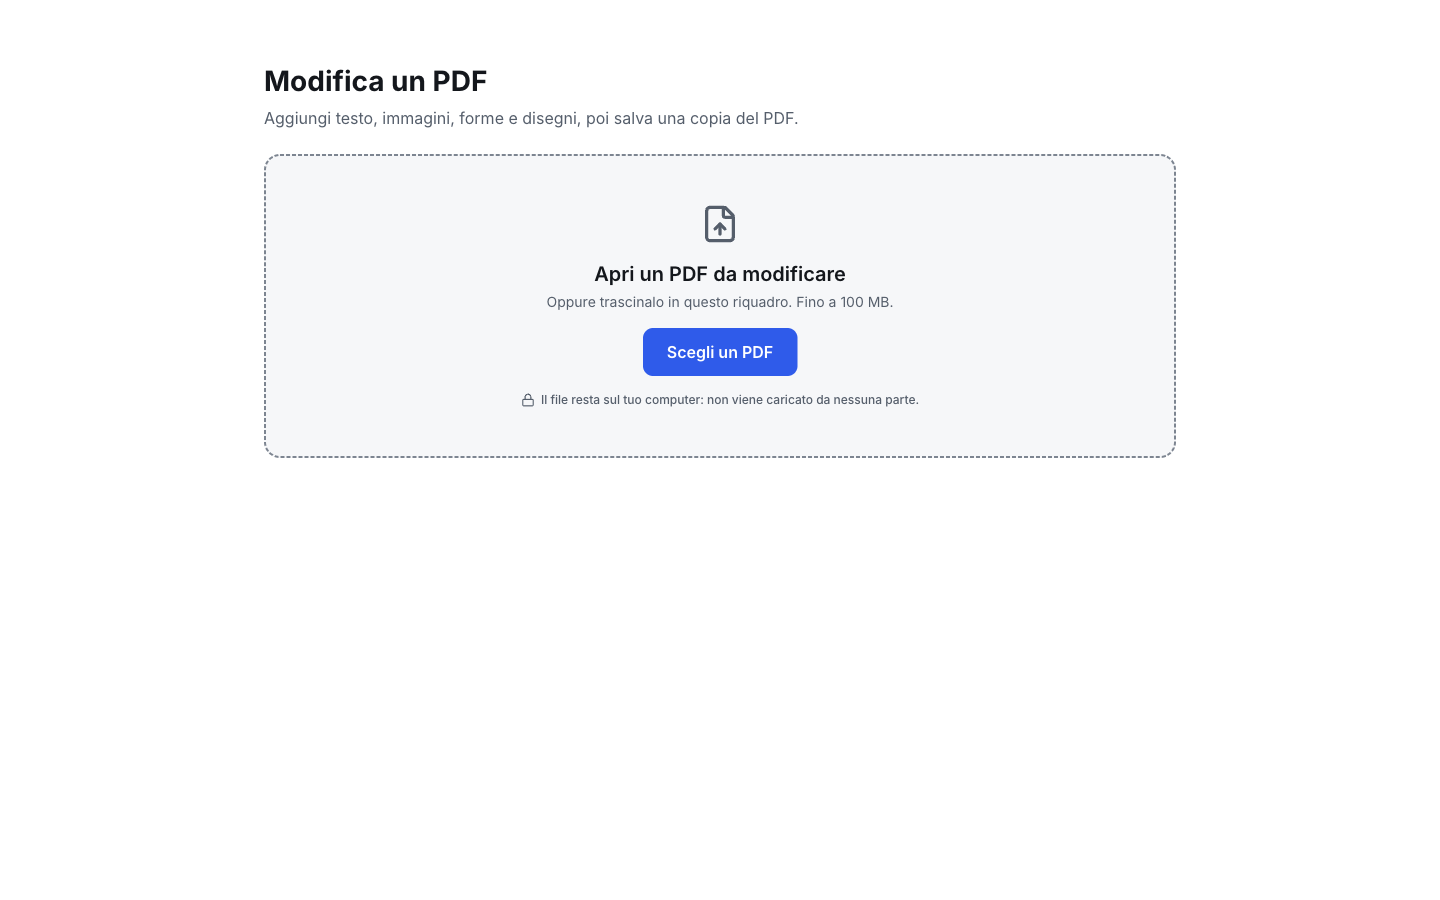
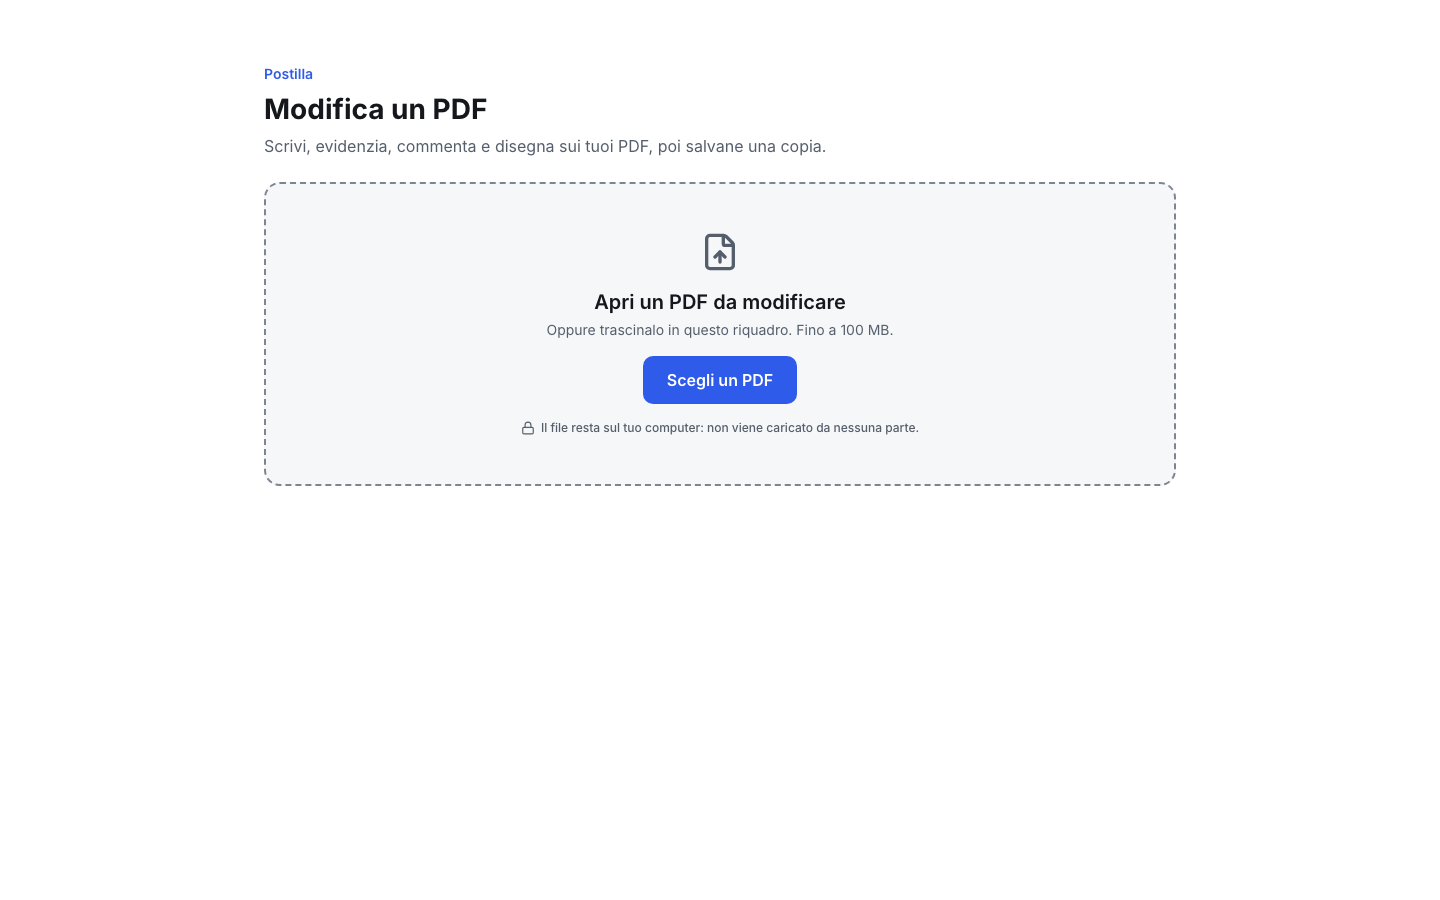
brand: Postilla
- nome nel titolo, nel pacchetto e sulla schermata iniziale; README del progetto
- docs/brand.md e brand.json; controllo dei residui: pulito
- test S01-E3 riscritto sulla regola vera (nessuna barra prima di mezzo secondo)

Changed region(s): [[0.375, 0.2178, 0.625, 0.4978], [0.1875, 0.0622, 0.5938, 0.1867]]

diff --git a/e2e/f10-rapidi.spec.ts b/e2e/f10-rapidi.spec.ts
@@ -32,19 +32,22 @@ test.describe('avanzamento all\'apertura', () => {
     await expect(bar).toHaveCount(0)
   })
 
-  test('S01-E3 un PDF piccolo si apre senza lampi di barre', async ({ page }) => {
+  test('S01-E3 nessuna barra prima di mezzo secondo (niente lampi con i PDF piccoli)', async ({ page }) => {
     await page.goto('/')
-    let seen = false
-    page.on('framenavigated', () => {})
-    await page.exposeFunction('__barSeen', () => (seen = true))
+    // Se la barra compare, deve essere passato almeno mezzo secondo dalla scelta del file.
+    // (Su una macchina molto carica anche un PDF piccolo può superarlo: allora la barra è giusta.)
     await page.evaluate(() => {
+      const w = window as never as { __barAt?: number }
       new MutationObserver(() => {
-        if (document.querySelector('[role="progressbar"]')) (window as never as { __barSeen: () => void }).__barSeen()
+        if (w.__barAt === undefined && document.querySelector('[role="progressbar"]')) w.__barAt = performance.now()
       }).observe(document.body, { childList: true, subtree: true })
     })
-    await chooseFile(page, 'Scegli un PDF', sample('documento.pdf'))
+    const [chooser] = await Promise.all([page.waitForEvent('filechooser'), page.getByRole('button', { name: 'Scegli un PDF' }).click()])
+    const t0 = await page.evaluate(() => performance.now())
+    await chooser.setFiles(sample('documento.pdf'))
     await expect(page.getByRole('figure', { name: 'Pagina 1', exact: true })).toBeVisible()
-    expect(seen).toBe(false)
+    const barAt = await page.evaluate(() => (window as never as { __barAt?: number }).__barAt)
+    if (barAt !== undefined) expect(barAt - t0, 'la barra è comparsa troppo presto').toBeGreaterThanOrEqual(550)
   })
 })
 

diff --git a/src/screens/UploadScreen.tsx b/src/screens/UploadScreen.tsx
@@ -69,8 +69,9 @@ export function UploadScreen() {
   return (
     <main className="mx-auto flex w-full max-w-(--layout-upload-max) flex-col gap-6 px-4 py-10 md:px-6 md:py-16">
       <div className="flex flex-col gap-2">
+        <p className="text-sm font-semibold text-accent">Postilla</p>
         <h1 className="text-xl">Modifica un PDF</h1>
-        <p className="text-base text-text-muted">Aggiungi testo, immagini, forme e disegni, poi salva una copia del PDF.</p>
+        <p className="text-base text-text-muted">Scrivi, evidenzia, commenta e disegna sui tuoi PDF, poi salvane una copia.</p>
       </div>
       <Dropzone onFile={(f) => void tryOpen(f)} busy={busy && !locked} />
       {progress !== null && <ProgressBar label="Apertura del PDF" value={Math.round(progress * 100)} />}

diff --git a/design.html b/design.html
@@ -4,7 +4,7 @@
     <meta charset="UTF-8" />
     <link rel="icon" type="image/svg+xml" href="/favicon.svg" />
     <meta name="viewport" content="width=device-width, initial-scale=1.0" />
-    <title>Componenti · Editor PDF</title>
+    <title>Componenti · Postilla</title>
   </head>
   <body>
     <div id="root"></div>

diff --git a/index.html b/index.html
@@ -4,7 +4,7 @@
     <meta charset="UTF-8" />
     <link rel="icon" type="image/svg+xml" href="/favicon.svg" />
     <meta name="viewport" content="width=device-width, initial-scale=1.0" />
-    <title>Editor PDF</title>
+    <title>Postilla</title>
   </head>
   <body>
     <div id="root"></div>

diff --git a/README.md b/README.md
@@ -1,32 +1,49 @@
-# React + TypeScript + Vite
+# Postilla
 
-This template provides a minimal setup to get React working in Vite with HMR and some Oxlint rules.
+Editor PDF interno. Si apre un PDF, si aggiungono testo, immagini, forme, disegni, evidenziazioni e commenti, e si salva una copia.
 
-Currently, two official plugins are available:
+**Il PDF non lascia mai il computer di chi lo modifica.** Non c'è un server: tutto avviene nel browser, e nella versione pubblicata il browser blocca qualsiasi connessione verso altri siti.
 
-- [@vitejs/plugin-react](https://github.com/vitejs/vite-plugin-react/blob/main/packages/plugin-react) uses [Oxc](https://oxc.rs)
-- [@vitejs/plugin-react-swc](https://github.com/vitejs/vite-plugin-react/blob/main/packages/plugin-react-swc) uses [SWC](https://swc.rs/)
+## Cosa sa fare
 
-## React Compiler
+- Testo con tre font (Noto Sans, Serif, Mono), dimensione, colore, grassetto, corsivo, sottolineato, allineamento
+- Immagini (PNG, JPG; WebP e GIF convertiti), forme (rettangolo, ellisse, linea), penna, evidenziatore a mano libera
+- Evidenziare, sottolineare (anche con l'onda) e barrare il testo del PDF: nel file sono annotazioni vere, modificabili in Acrobat
+- Commenti sulla pagina (note PDF)
+- Annulla/Ripeti, copia/incolla anche tra PDF diversi, pannello Elementi con l'ordine dei livelli
+- PDF protetti da password (il file salvato non è protetto: lo si dice all'utente)
+- Funziona anche senza rete, una volta aperta la pagina
 
-The React Compiler is not enabled on this template because of its impact on dev & build performances. To add it, see [this documentation](https://react.dev/learn/react-compiler/installation).
+Limiti noti: non modifica il testo già presente nel PDF; si annota solo il testo orizzontale; emoji e alcuni simboli non entrano nel PDF (l'editor avvisa); file fino a 100 MB.
 
-## Expanding the Oxlint configuration
+## Sviluppo
 
-If you are developing a production application, we recommend enabling type-aware lint rules by installing `oxlint-tsgolint` and editing `.oxlintrc.json`:
+Serve Node 20 o successivo.
 
-```json
-{
-  "$schema": "./node_modules/oxlint/configuration_schema.json",
-  "plugins": ["react", "typescript", "oxc"],
-  "options": {
-    "typeAware": true
-  },
-  "rules": {
-    "react/rules-of-hooks": "error",
-    "react/only-export-components": ["warn", { "allowConstantExport": true }]
-  }
-}
+```bash
+npm install
+npm run dev          # http://localhost:5173 · componenti: /design.html
+npm test             # test end-to-end (Playwright avvia da solo il server)
+npm run samples      # rigenera i PDF di prova in samples/
+npm run tokens       # rigenera src/styles/tokens.css da docs/design/tokens.json
 ```
 
-See the [Oxlint rules documentation](https://oxc.rs/docs/guide/usage/linter/rules) for the full list of rules and categories.
+## Pubblicazione
+
+```bash
+npm run build        # risultato in dist/
+```
+
+`dist/` è un insieme di file statici: va bene qualsiasi server web (anche interno). Nessun server applicativo, nessun database.
+
+## Struttura
+
+- `src/pdf/` apertura (pdf.js), esportazione (pdf-lib), font, testo della pagina
+- `src/editor/` livello modificabile sulle pagine (Fabric.js), barra delle proprietà
+- `src/screens/` le schermate: caricamento, editor, elaborazione, download
+- `src/ui/` componenti dell'interfaccia; colori e misure solo dai token
+- `e2e/` test Playwright · `samples/` PDF di prova · `docs/` design (token e componenti) e screenshot
+
+## Licenze
+
+Codice dell'app: interno. Librerie: pdf.js (Apache-2.0), @cantoo/pdf-lib e fontkit (MIT), Fabric.js (MIT), React, Radix, Lucide (MIT/ISC). Font Noto e Inter: SIL Open Font License (`public/fonts/OFL.txt`).
